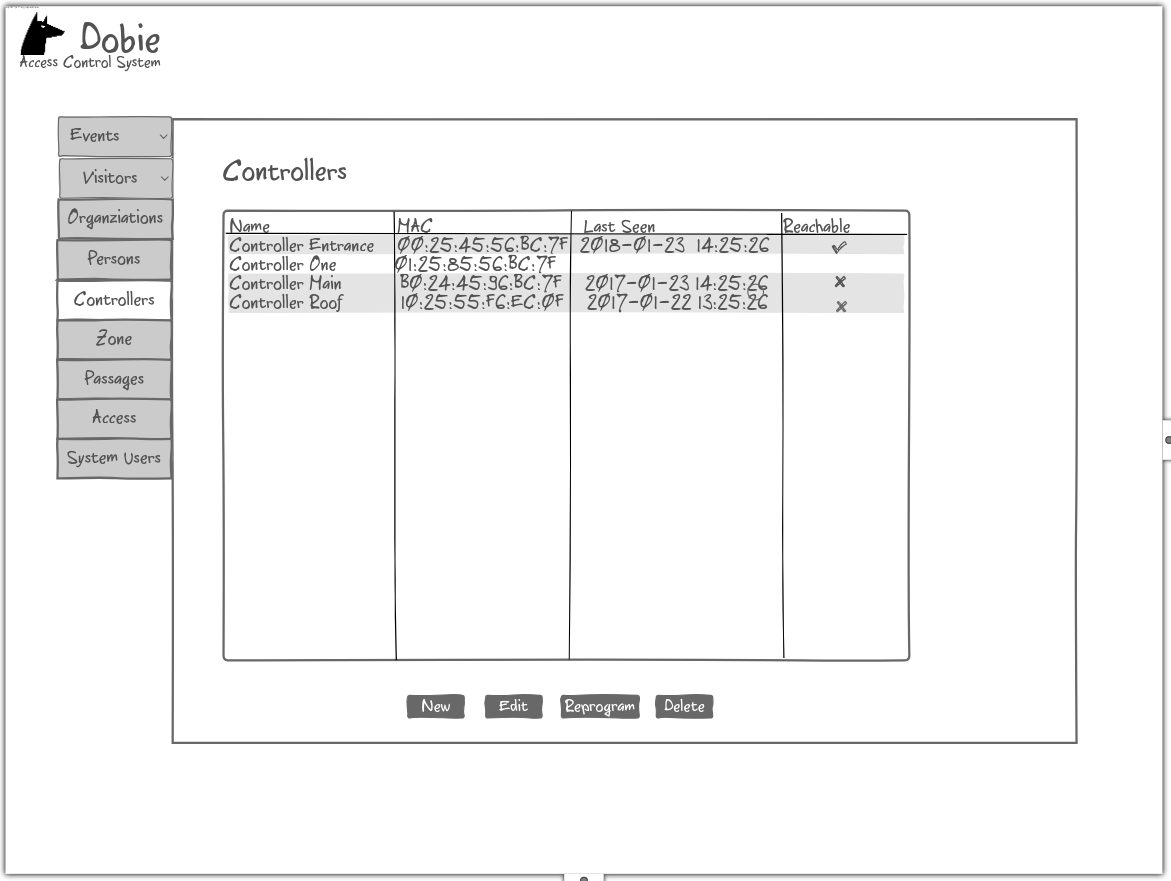
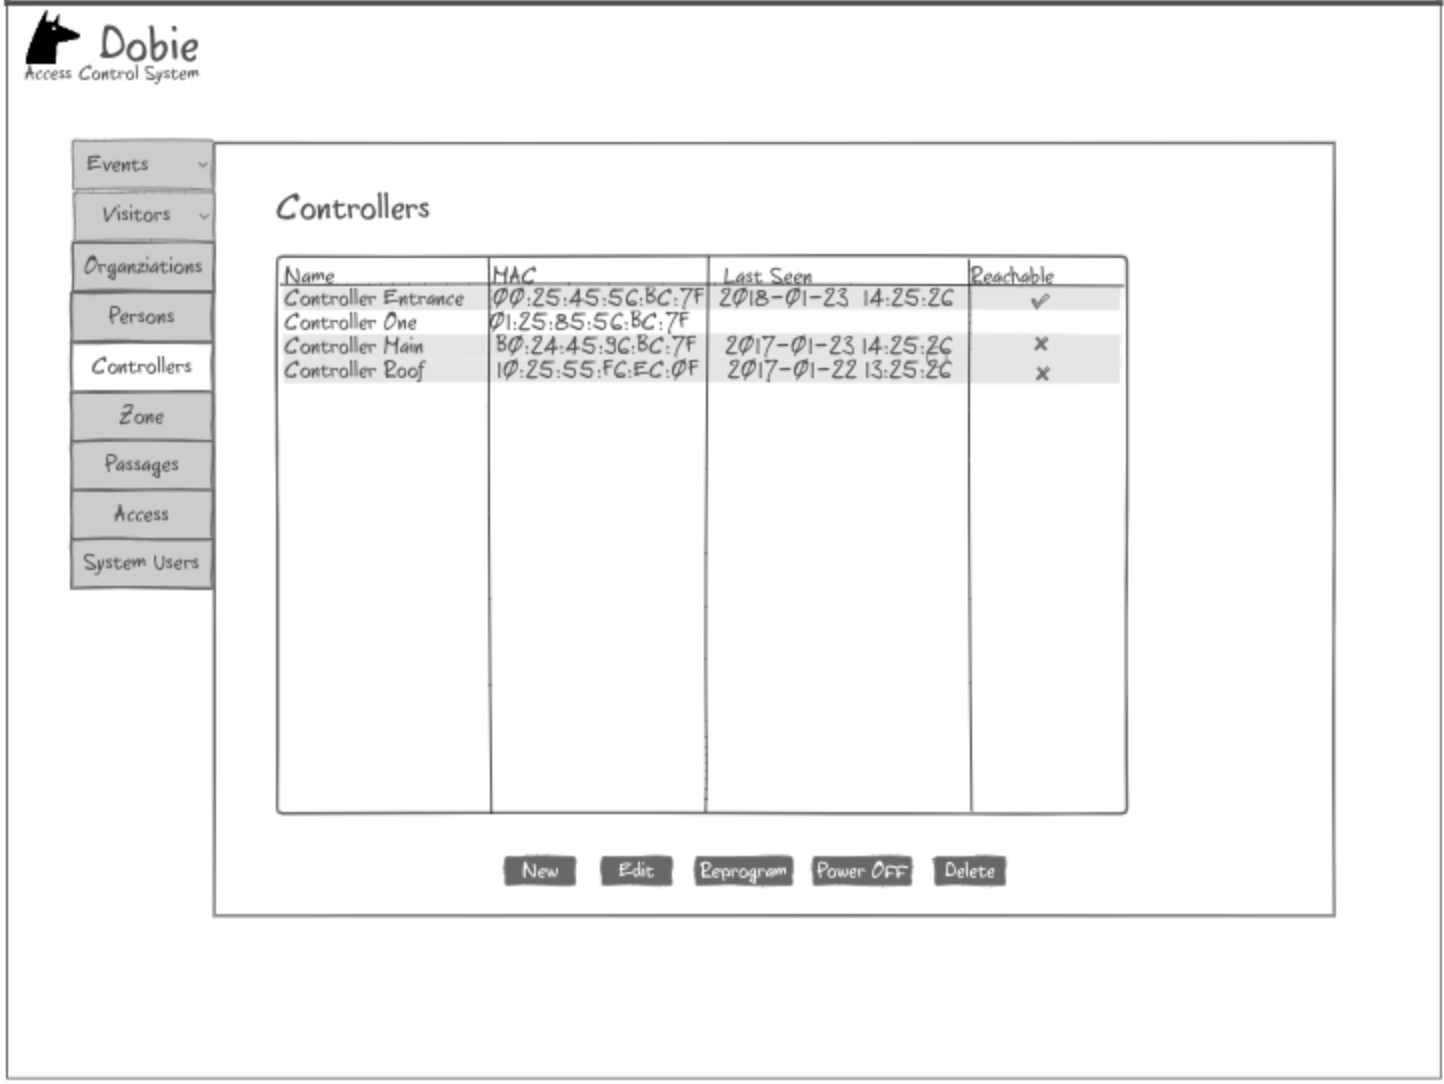
Add documentation of REST API to power off controller

Changed region(s): [[0.0, 0.0, 1.0, 1.0], [0.9223, 0.1532, 0.953, 0.8275]]

diff --git a/docs/front_end_specs.rst b/docs/front_end_specs.rst
@@ -2824,6 +2824,56 @@ if the response is 404 NOT FOUND, a message should inform that the reprogramming
 
 
 
+Poweroff a controller
+~~~~~~~~~~~~~~~~~~~~~
+
+When we want to de-energize a controller, the correct way is to power off the operative system of the controller. To do this, the desired controller should be selected, and the power button off should be pressed.
+
+
+The following method should be sent to the server:
+
+**Method:** PUT
+
+**URI:**
+
+.. code-block::
+
+  http://172.18.0.4:5000/api/v1.0/controller/2/poweroff
+
+
+**Response:**
+
+if the response is 200 OK, a message should inform that the controller received the poweroff message.
+
+.. code-block::
+
+    HTTP/1.1 200 OK
+    Content-Type: application/json
+    Content-Length: 47
+    Date: Tue, 20 Nov 2018 23:00:36 GMT
+    
+    {"message":"Controller accepted power off message","status":"OK"}
+
+
+
+if the response is 404 NOT FOUND, a message should inform that the controller doesn't receive the poweroff message.
+
+.. code-block::
+
+
+    HTTP/1.1 404 NOT FOUND
+    Content-Type: application/json
+    Content-Length: 91
+    Date: Tue, 20 Nov 2018 23:05:26 GMT
+    
+    {"code":404,"error":"request not found","message":"Controller not found","status":"error"}
+
+
+
+
+
+
+
 Get one controller
 ~~~~~~~~~~~~~~~~~~
 
